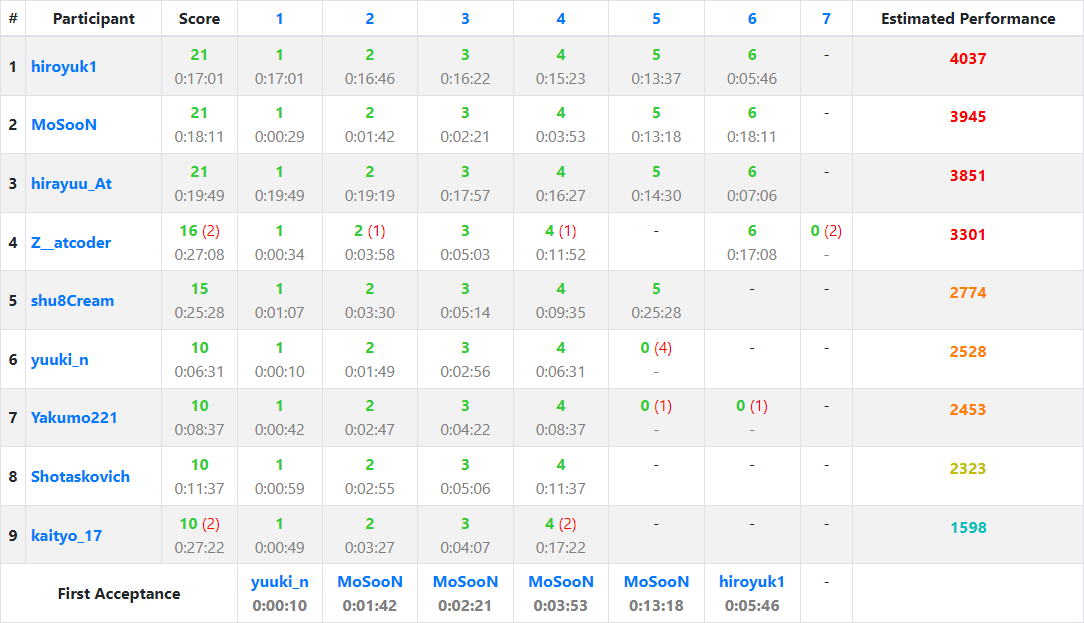
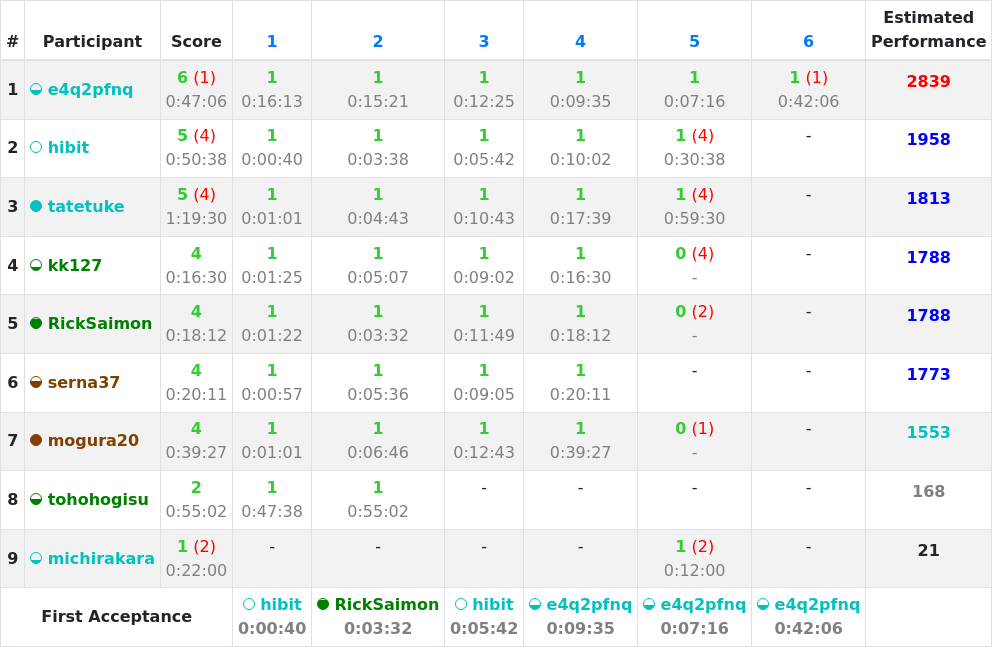
バーチャルコンテストの順位表の画像、ユーザー名、パフォーマンスを取得可能に更新

diff --git a/main.py b/main.py
@@ -3,25 +3,54 @@ from selenium.webdriver.chrome.options import Options
 from selenium.webdriver.common.by import By
 #from selenium.webdriver.chrome.service import Service
 import time
+import asyncio
 
-#ドライバのpathを指定
-path = 'chromedriver-win64\chromedriver.exe'
-#ブラウザのウィンドウを表すオブジェクト"driver"を作成
-options = Options()
-options.add_argument('--blink-settings=imagesEnabled=false')
-options.add_argument('--headless')
-driver = webdriver.Chrome(options=options)
-url = 'https://kenkoooo.com/atcoder/#/contest/show/c7f01330-a215-42f5-aac9-b6fdc062de32?activeTab=Standings'
+async  def send_vcon_standings(vcon_id):
+    #ブラウザのウィンドウを表すオブジェクト"driver"を作成
+    options = Options()
+    options.add_argument('--blink-settings=imagesEnabled=false')
+    options.add_argument('--headless')
+    driver = webdriver.Chrome(options=options)
 
-driver.get(url)
-time.sleep(3)
-w = driver.execute_script('return document.body.scrollWidth')
-h = driver.execute_script('return document.body.scrollHeight')
-driver.set_window_size(h, 6400)
-# 範囲を指定してスクリーンショットを撮る
-png = driver.find_element(By.XPATH, '//*[@id="root"]/div/div[2]/div[6]/div[2]/div/table').screenshot_as_png
-# ファイルに保存
-with open('image/screenshot.png', 'wb') as f:
-    f.write(png)
-#driver.save_screenshot('image/screenshot.png')
-driver.quit()
+    #サイトにアクセス
+    url = f'https://kenkoooo.com/atcoder/#/contest/show/{vcon_id}?activeTab=Standings'
+    driver.get(url)
+    await asyncio.sleep(1)
+
+    #レートを表示
+    driver.find_element(By.XPATH, '//*[@id="root"]/div/div[2]/div[6]/div[1]/div/form/div/div[2]/label').click()
+    await asyncio.sleep(1)
+
+    #ウィンドウの大きさを変更
+    w = driver.execute_script('return document.body.scrollWidth')
+    #h = driver.execute_script('return document.body.scrollHeight')
+    adjustment = 20 #幅微調整 
+    driver.set_window_size(w + adjustment, 6400)
+
+    #順位表を取得
+    standings = driver.find_element(By.XPATH, '//*[@id="root"]/div/div[2]/div[6]/div[2]/div/table[1]')
+    # 範囲を指定してスクリーンショットを撮る
+    png = standings.screenshot_as_png
+    # ファイルに保存
+    with open('image/screenshot.png', 'wb') as f:
+        f.write(png)
+
+    #ユーザー名、パフォーマンスを取得
+    results = {}
+    #表の全てのデータを取得
+    trs = standings.find_elements(By.TAG_NAME, 'tr')
+    #最初、最後の行は無視
+    for i in range(1, len(trs) - 1):
+        ths = trs[i].find_elements(By.TAG_NAME, "th")
+        tds = trs[i].find_elements(By.TAG_NAME, "td")
+        results[ths[1].text] = tds[-1].text;
+    
+    print(results)
+        
+
+
+    driver.quit()
+    
+
+asyncio.run(send_vcon_standings('95367c13-2f9e-4d21-a0b8-46259db6aa94'))
+
